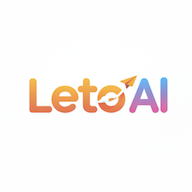
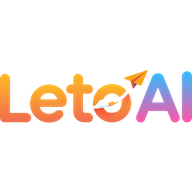
feat: 增加百度统计，优化网站图标

Changed region(s): [[0.0, 0.3438, 1.0, 0.6562]]

diff --git a/app/layout.tsx b/app/layout.tsx
@@ -53,7 +53,8 @@ export default function RootLayout({
     <html lang="zh-CN" suppressHydrationWarning>
       <head>
         {/* 网站图标 */}
-        <link rel="icon" href="/favicon.ico" sizes="32x32" />
+        <link rel="icon" href="/favicon.ico" />
+        <link rel="icon" href="/icon-48.png" type="image/png" sizes="48x48" />
         <link rel="icon" href="/icon-192.png" type="image/png" sizes="192x192" />
         <link rel="apple-touch-icon" href="/apple-touch-icon.png" />
         <link rel="manifest" href="/manifest.json" />

diff --git a/app/privacy-policy/page.tsx b/app/privacy-policy/page.tsx
@@ -5,6 +5,9 @@ export const metadata: Metadata = {
   title: "隐私政策 | LetoAI - 数据保护与隐私安全政策",
   description: "LetoAI隐私政策详细说明我们如何收集、使用、保护您的个人信息，确保数据安全和用户隐私权益。",
   keywords: "隐私政策, 数据保护, 个人信息安全, LetoAI隐私声明, 数据处理政策, 用户隐私权",
+  alternates: {
+    canonical: "https://www.letoai.tech/privacy-policy",
+  },
 }
 
 export default function PrivacyPolicyPage() {
